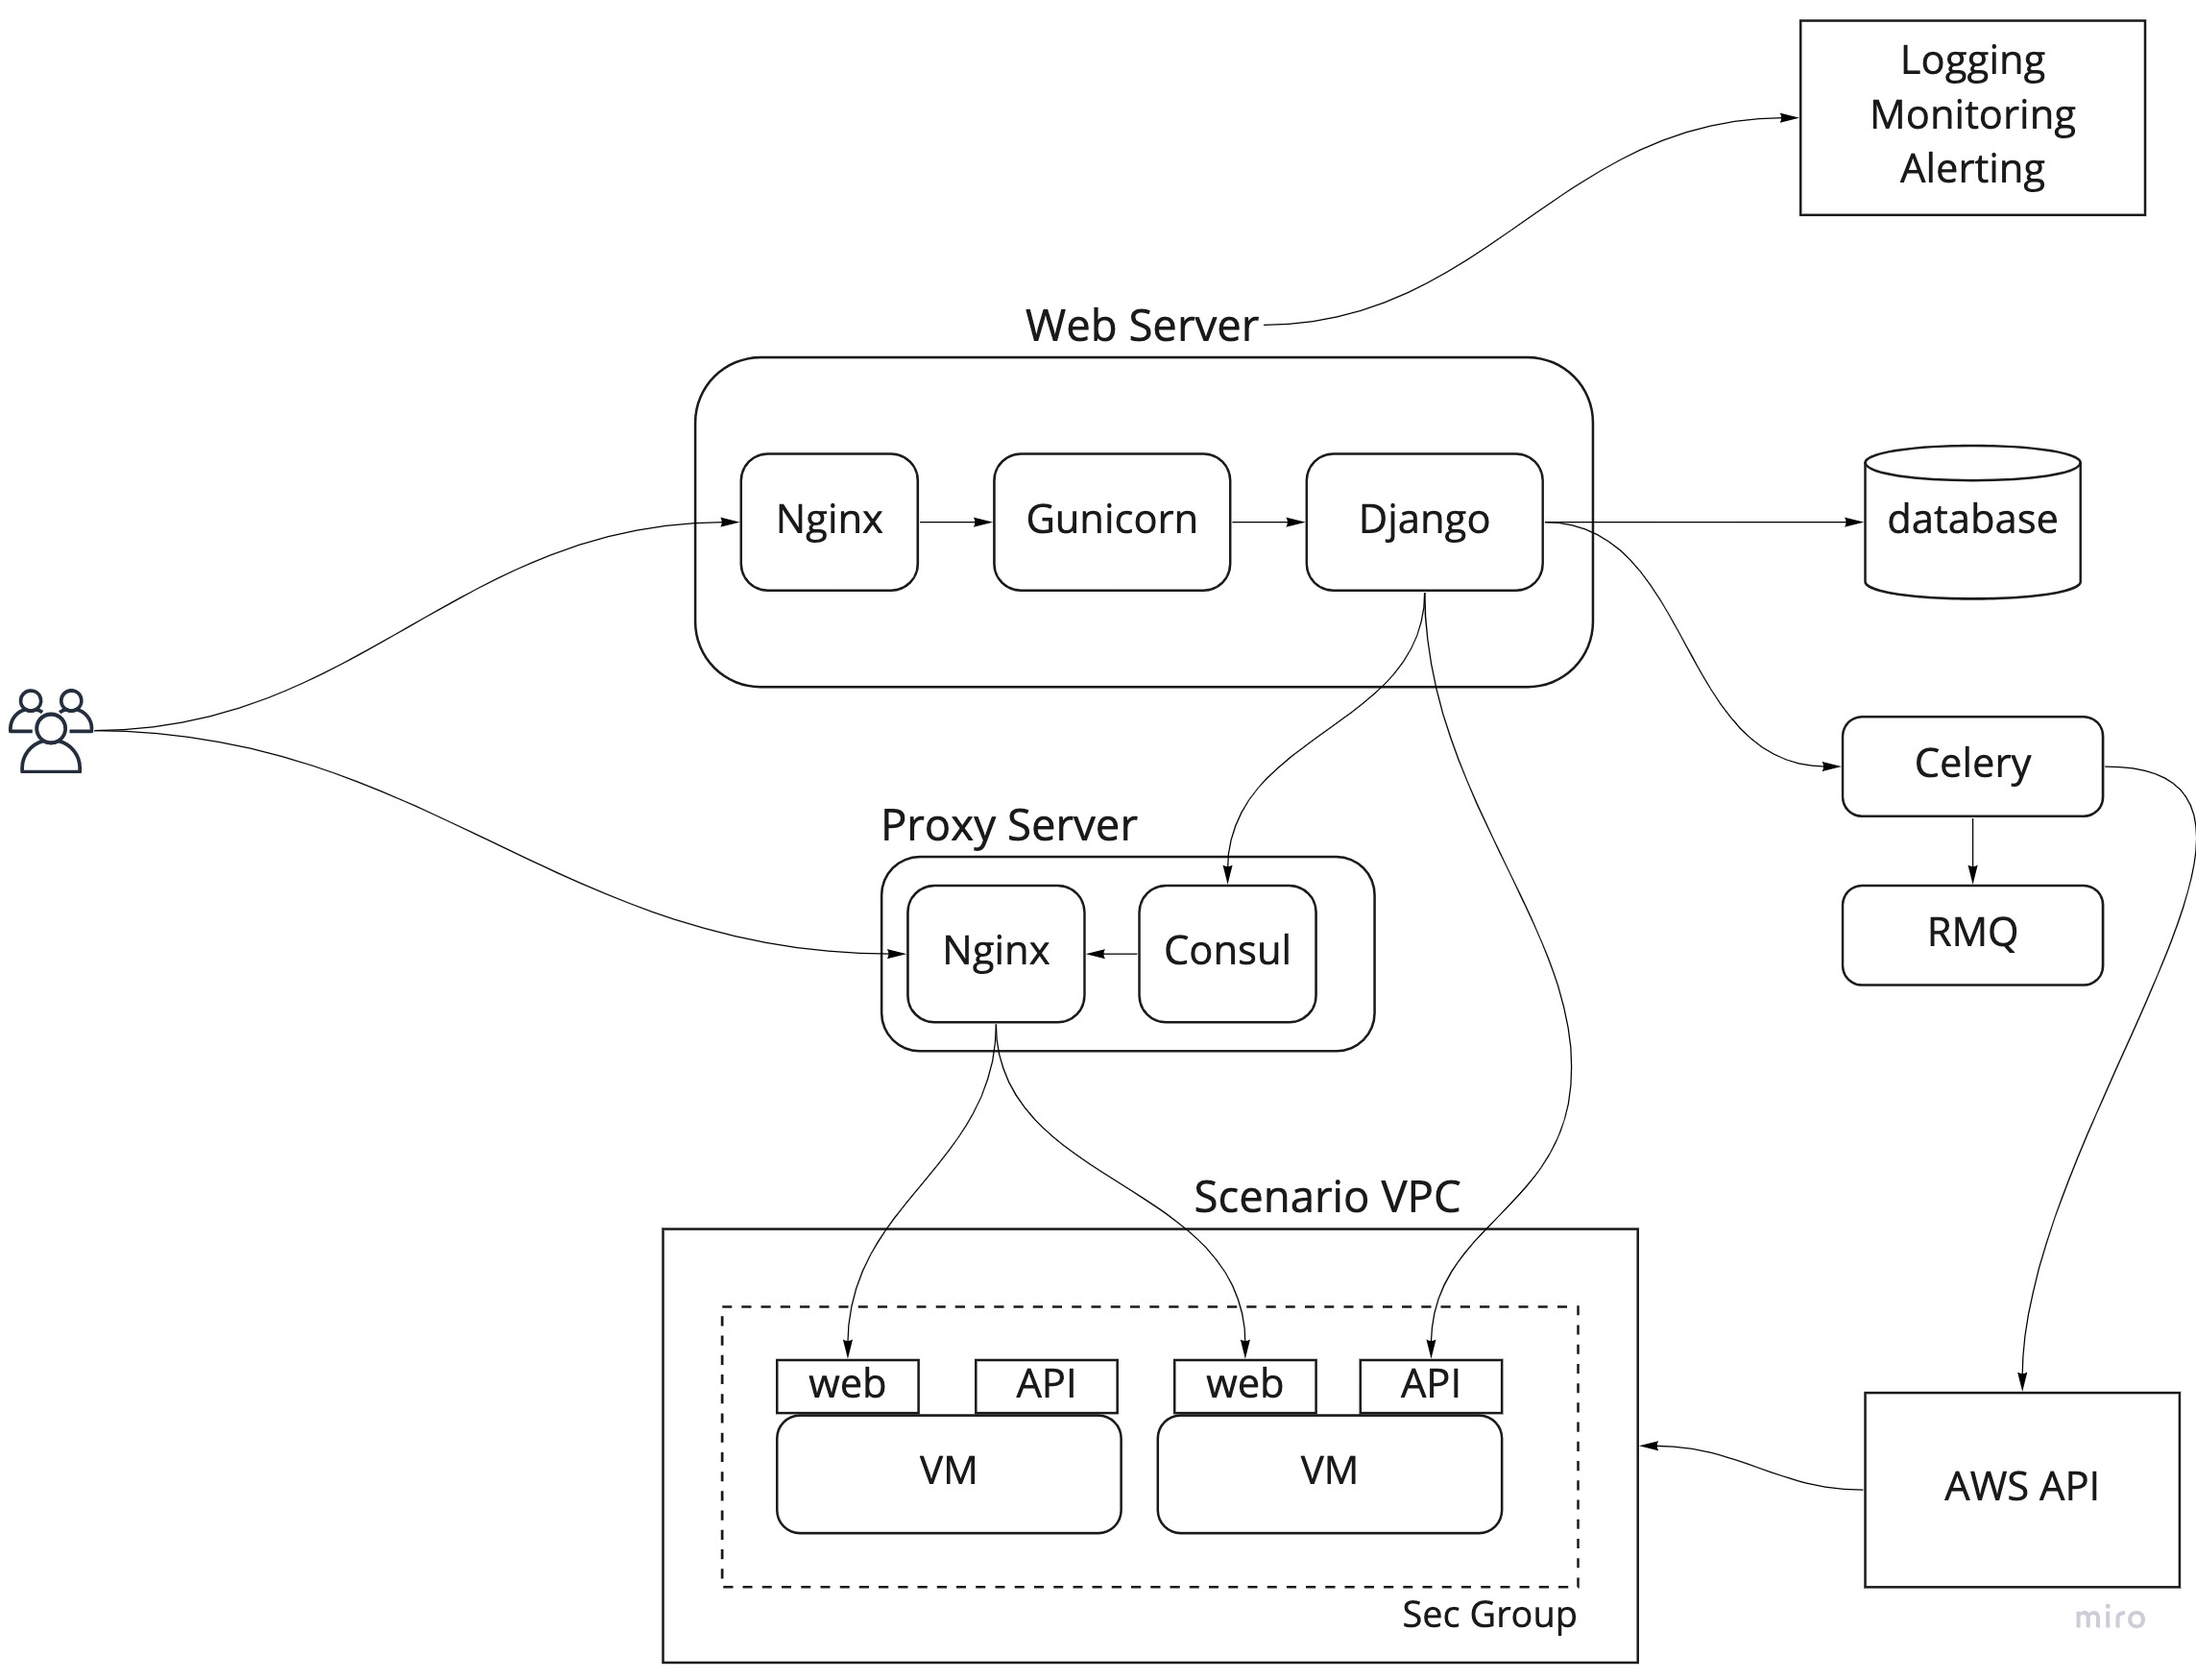
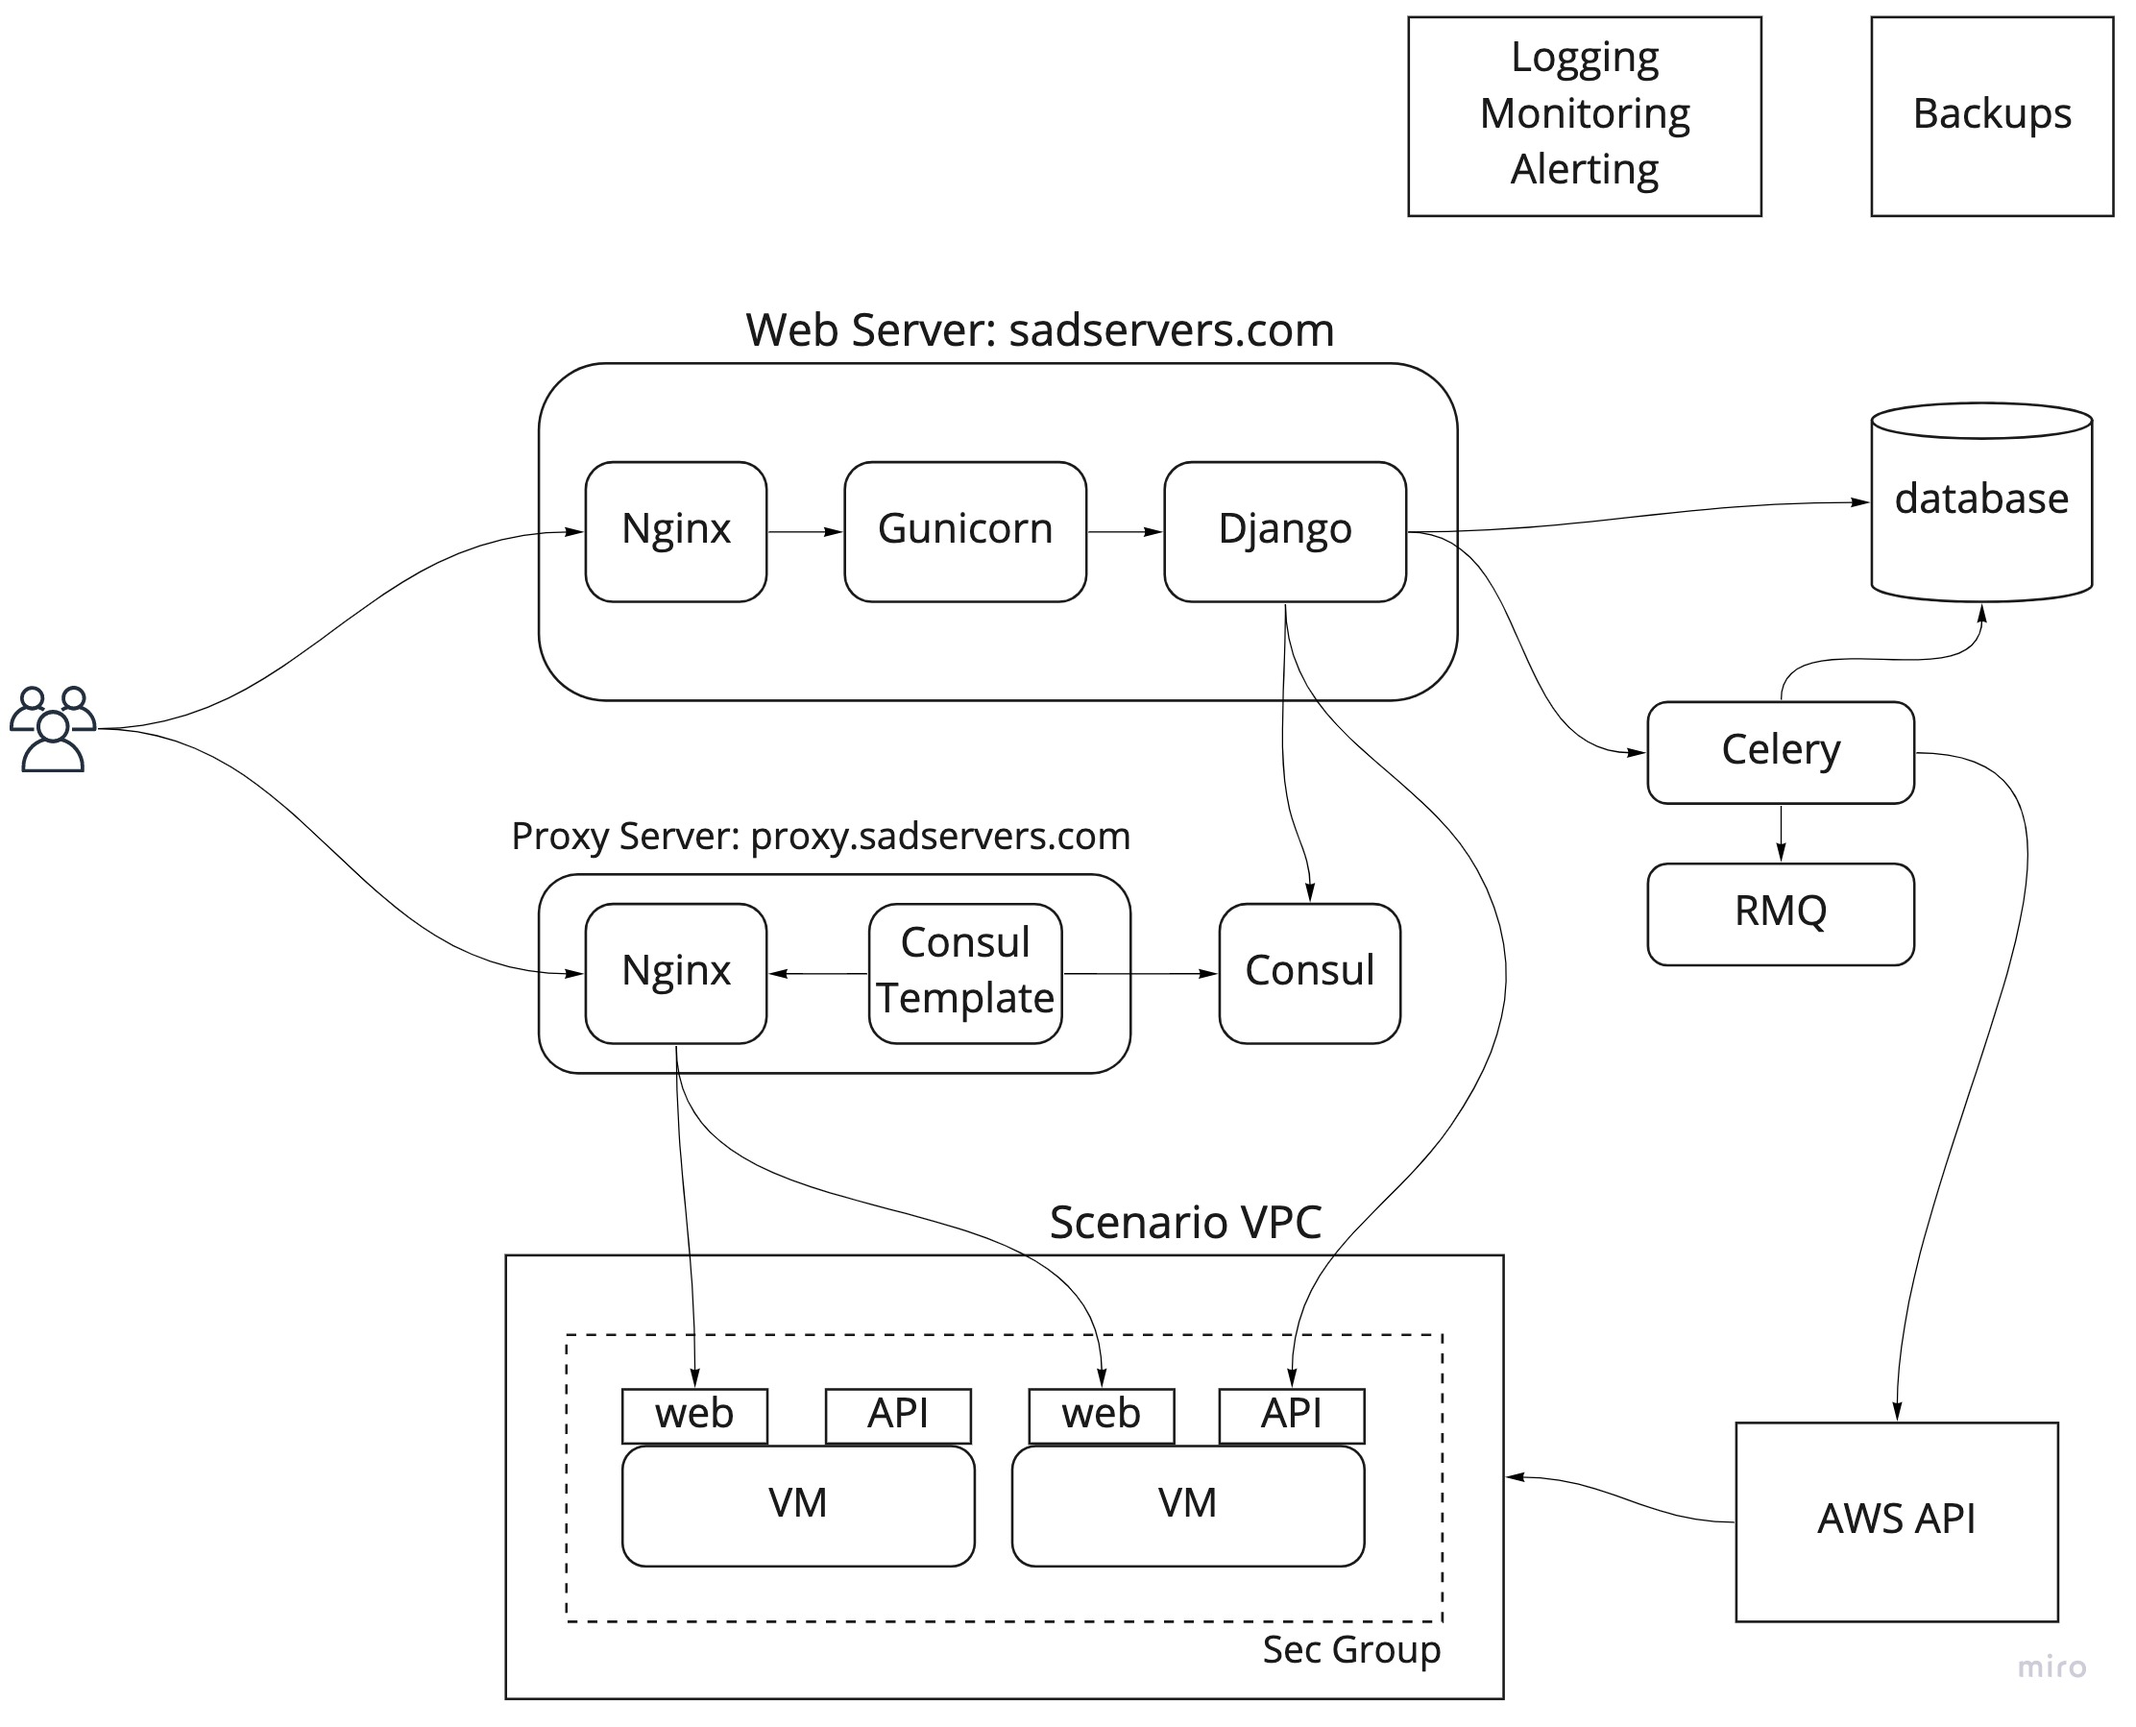
updated diagram, Consul proxy

diff --git a/README.md b/README.md
@@ -27,26 +27,52 @@ An annoyance I found during my interviews is that sometimes instead of helping, 
 
 ## Architecture
 
+See diagram:
+
 ![architecture](sadservers_architecture.jpg)
+
+Users interact via HTTPS only with a web server and a proxy server connecting to the scenario VMs. The rest of the communications are internal between VPCs or AWS services. Each scenario VM reside in a VPC with no Internet-facing incoming access and limited egress access.
+
+### Web server
 
 The website is powered by [Django](https://www.djangoproject.com/) and Python3, with [Bootstrap](https://getbootstrap.com/) and plain Javascript at the front.  
 
 In front of Django there's an [Nginx](https://www.nginx.com/) server and [Gunicorn](https://gunicorn.org/) WSGI server. The SSL certificate is generously provided by [Let's Encrypt](https://letsencrypt.org/) and its certbot, the best thing to happen to the Internet since Mosaic.
 
-New server requests are queued and processed in the background. On the front-end I'm using [Celery Progress Bar for Django](https://github.com/czue/celery-progress). The tasks are managed asynchronously by [Celery](https://docs.celeryq.dev/en/stable/) with a [RabbitMQ](https://www.rabbitmq.com/) backend (and yes, maybe there should be a simpler but still robust stack instead of this).  
+### Task Queue
+
+New server requests are queued and processed in the background. On the front-end I'm using [Celery Progress Bar for Django](https://github.com/czue/celery-progress). The tasks are managed asynchronously by [Celery](https://docs.celeryq.dev/en/stable/) with a [RabbitMQ](https://www.rabbitmq.com/) back-end and with task results saved to the main database (and yes, maybe there should be a simpler but still robust stack instead of this).  
+
+### Permanent Storage
 
 A [PostgreSQL](https://www.postgresql.org/) database is the permanent storage backend, the first choice for RDBMS. [SQLite](https://www.sqlite.org/index.html) is a valid alternative for sites without a high rate of (concurrent) writes.  
 
 Instances are requested on AWS using [Boto3](https://github.com/boto/boto3), based on scenario images. A Celery beat scheduler checks for expired instances and kills them.  
 
-On the VM instances, [Gotty](https://github.com/yudai/gotty) provides the terminal as HTTP(S). An agent built with Golang and [Gin](https://github.com/gin-gonic/gin) provides a rest API to the main server, so solutions can be checked and commands can be sent to the scenario instance or data extracted from it.
+### Proxy Server
 
-Without detail, there's quite a bit of auxiliary services needed to run a public service in a decent "production-ready" state. This includes notification services (AWS SES for email for example), logging service, external uptime monitoring service, scheduled backups, error logging (like [Sentry](https://sentry.io/)), infrastructure as code (Hashicorop [Terraform](https://www.terraform.io/) and [Packer](https://www.packer.io/)).
+In the initial proof of concept, I had the users connect to the VMs public IP directly. For security reasons like terminating SSL, being able to use rate limiting, logging access and specially having the VMs with private IPs only, it's a good idea to route access to the scenario instances through a reverse web proxy server.  
 
+Since the scenario instances are created on demand (at least some of them), I needed a way to dynamicaly inject in the web server configuration the route mappings, ie, using code against an API to configure the web server and reloading it. The configuration for proxying a VM would be like proxy.sadservers.com:port/somestring -> (proxy passes to upstream server) -> VM ip address:port .  (Using a path string is an option, other options could be passing a ...?parameter in the URL or in the HTTP headers). 
+
+This was an interesting learning experience since unlike the rest of the stack I've never had this situation before. After considering some alternatives, I almost made it work with [Traefik](https://doc.traefik.io/traefik/) but I hit a wall, didn't seem to be a good solution for this case. and I discarded it.  A friend of mine suggested to use [Hashicorp Consul](https://www.consul.io/), where the Django server connects to and writes to its key/value store, and [Consul-template](https://github.com/hashicorp/consul-template), which monitors Consul and writes the key/values (string and IP) into Nginx configuration (which does the actual SSL and proxying) and reloads it. After figuring out production settings (certificates, tokens) it turned out to work very well.
+
+### Scenario Instances
+
+On the VM instances, [Gotty](https://github.com/yudai/gotty) provides a terminal with a shell as HTTP(S). An agent built with Golang and [Gin](https://github.com/gin-gonic/gin) provides a rest API to the main server, so solutions can be checked and commands can be sent to the scenario instance or data extracted from it.
+
+### Other Infrastructure & Services
+
+Without a lot of detail, there's quite a bit of auxiliary services needed to run a public service in a decent "production-ready" state. This includes notification services (AWS SES for email for example), logging service, external uptime monitoring service, scheduled backups, error logging (like [Sentry](https://sentry.io/)), infrastructure as code (Hashicorop [Terraform](https://www.terraform.io/) and [Packer](https://www.packer.io/)).
+
+
+## User Experience
+
+Not a UX expert as anyone can see but just trying to make it as simple and less confusing as possible.
 
 ## Code
 
-This project may become Open Source at some point but for now the code is not publicly available.
+This project may become Open Source at some point but for now the code is not publicly available. One reason is that showing the solution to the scenarios defeats the purpose and another reason is to expose details of how things are set up for security reasons. I'll be happy to chat about technical aspects of the project if someone is curious.
 
 ## Issues
 
@@ -54,7 +80,6 @@ This project may become Open Source at some point but for now the code is not pu
 
 ## Roadmap
 
-- Proxy server with SSL for ssh-to-web service. (WIP)
 - Registering users.
 - Timing solutions (this will allow to show a leaderboard).
 - Multi-VM scenarios (troubleshooting Kubernetes for example).
@@ -76,8 +101,8 @@ If you want to create a scenario, these are broadly the requirements:
 - An automated way to create the problem. This is, a script and other files that will set up the problem fully on a non-licenced Linux distribution available in AWS (for example, latest Debian or Ubuntu). For instance, if the scenario issue is about a broken web server configuration, the script would install the web server and replace the original config file with the problematic one.  A Hashicorp Packer template and auxiliary files would be even better :-) 
 - Optionally, a set of clues or tips that will increasingly get the user closer to the solution.  
 - Other:
-    - I'm using ports :8080 and :6767 for the ssh-to-web and agent, so don't use those ports.
+    - I'm using ports :8080 and :6767 for the shell-to-web and agent, so don't use those ports.
     - Currently only supporting one VM scenarios and not multiple VM scenarios.
-    - Ideally VMs should be fully self-contained and not need the Internet for anything (ie, the user wouldn't need to initiate connections from the scenario VM to the Internet). The exception would be an OS package repository. 
+    - VMs should be fully self-contained and not need the Internet for anything, ie, the user wouldn't need to initiate connections from the scenario VM to the Internet save for ICMP (ping) and DNS traffic. A possible exception would be access to an OS package repository proxy. 
 
 
